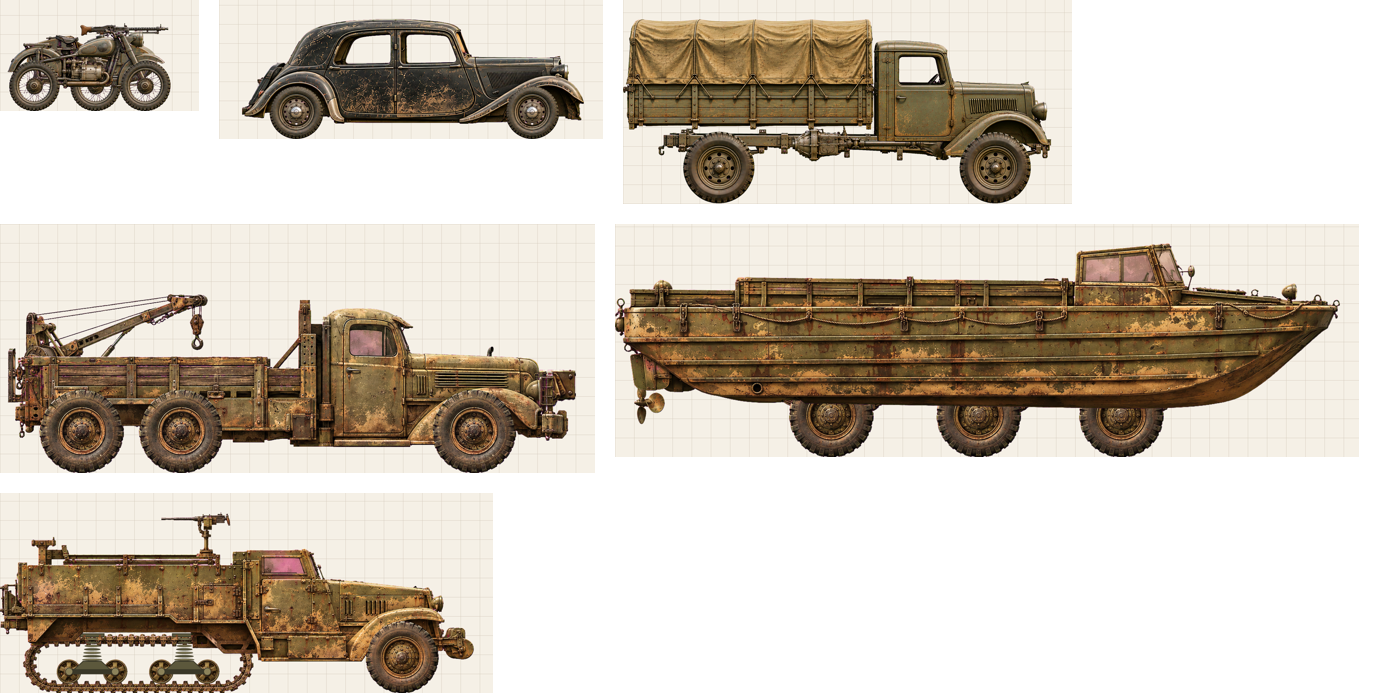
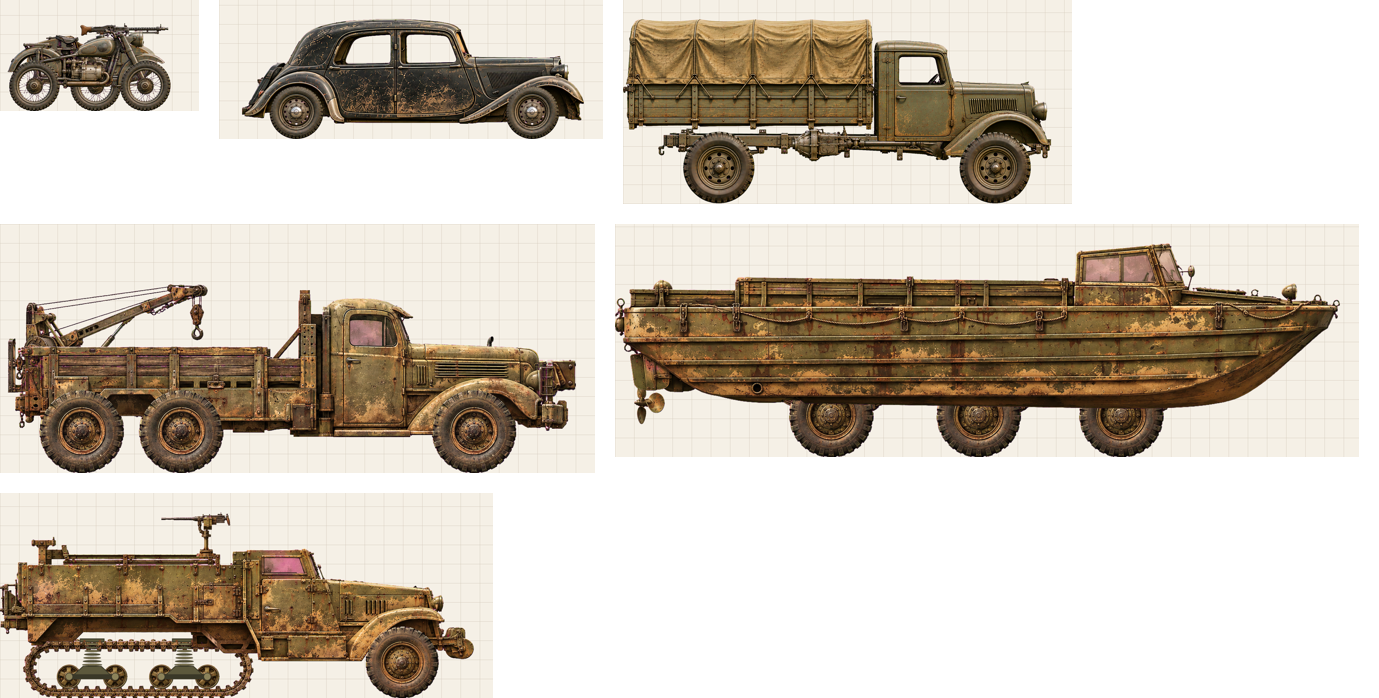
Art : Diamond T et Half-Track relevés
Claude-Session: https://claude.ai/code/session_01FR7p1SMounZ9dfyGLEvtwk

diff --git a/tools/specs_vehicules.py b/tools/specs_vehicules.py
@@ -59,8 +59,8 @@ PASSAGES = {"bmw_r75": "caisse", "citroen_traction": "caisse", "citroen_t23": "c
 RAYON = 0.96
 
 # Garde au sol ajoutée : tout le véhicule monte, sauf roues, chenille et galets (débattement visible).
-LEVE = {"bmw_r75": 0.04, "citroen_traction": 0.07, "citroen_t23": 0.10, "diamond_t": 0.12,
-        "dukw": 0.08, "m3_half_track": 0.05}
+LEVE = {"bmw_r75": 0.04, "citroen_traction": 0.07, "citroen_t23": 0.10, "diamond_t": 0.25,
+        "dukw": 0.08, "m3_half_track": 0.12}
 
 def main():
     root = Path("docs/art/vehicules")

diff --git a/docs/art/PRODUCTION.md b/docs/art/PRODUCTION.md
@@ -185,7 +185,7 @@ complet sert d'épave de décor (`decor/epave_*.png`), les petites pièces de bu
   Passages de roue : ordre d'affichage caisse → roues → `caisse_avant` (caisse percée d'un
   disque à 96 % du rayon de roue). Les roues passent devant le fond du passage de roue,
   le bord de l'aile recouvre le pneu. Même ordre dans Godot (3 sprites).
-  Garde au sol relevée (4 à 12 cm selon le véhicule, table LEVE) ; plateau du T23 posé sur le châssis.
+  Garde au sol relevée (4 à 25 cm selon le véhicule, table LEVE) ; plateau du T23 posé sur le châssis.
   Half-Track : `suspension.png` provisoire (bogies, ressorts), à faire dessiner.
   Le panier du BMW est presque caché par la moto en vue de profil (normal).
 - Reste à faire par Claude (chars seulement) : `gabarit.json` et `assemblage.png` de chaque véhicule.
